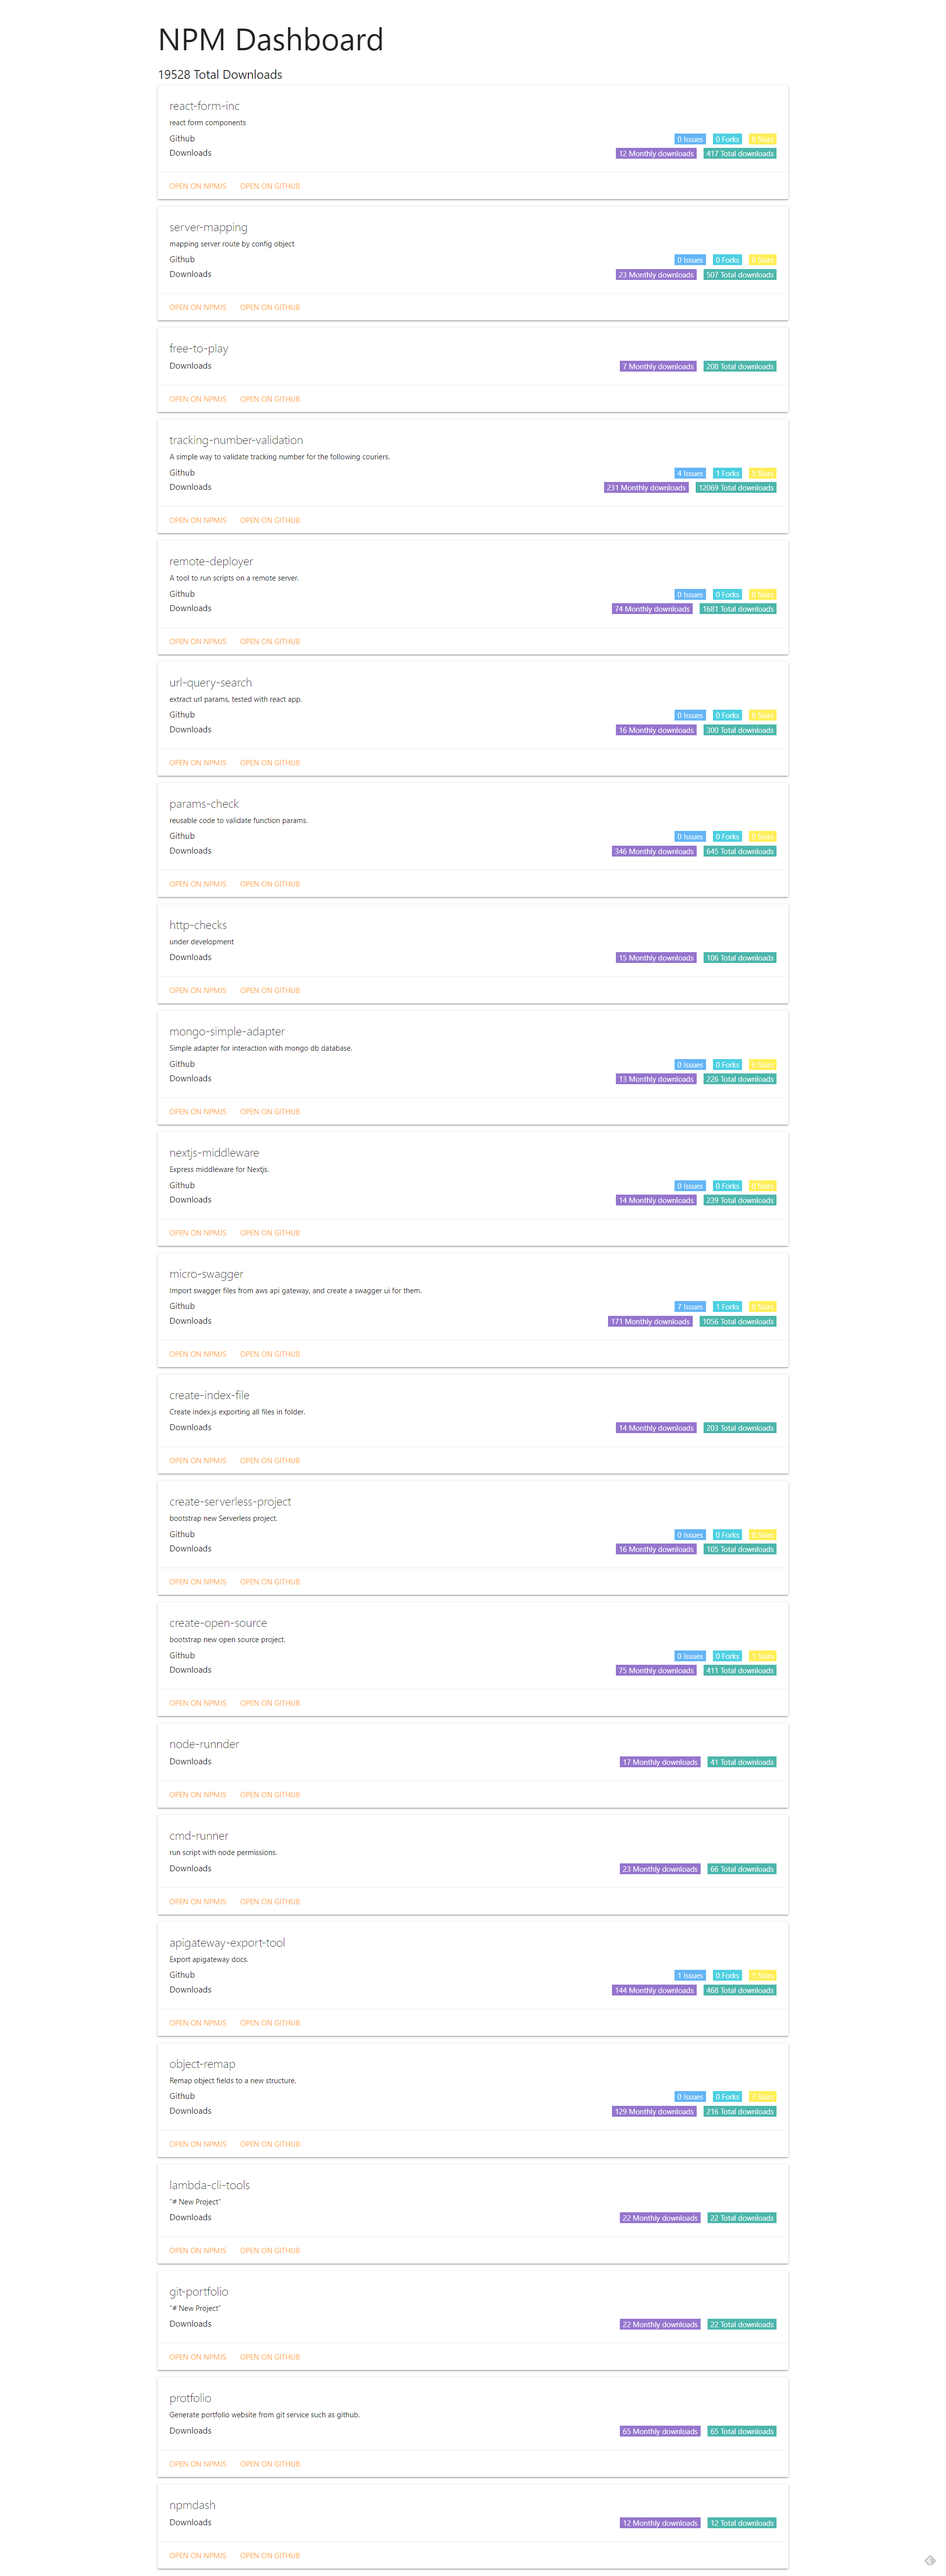
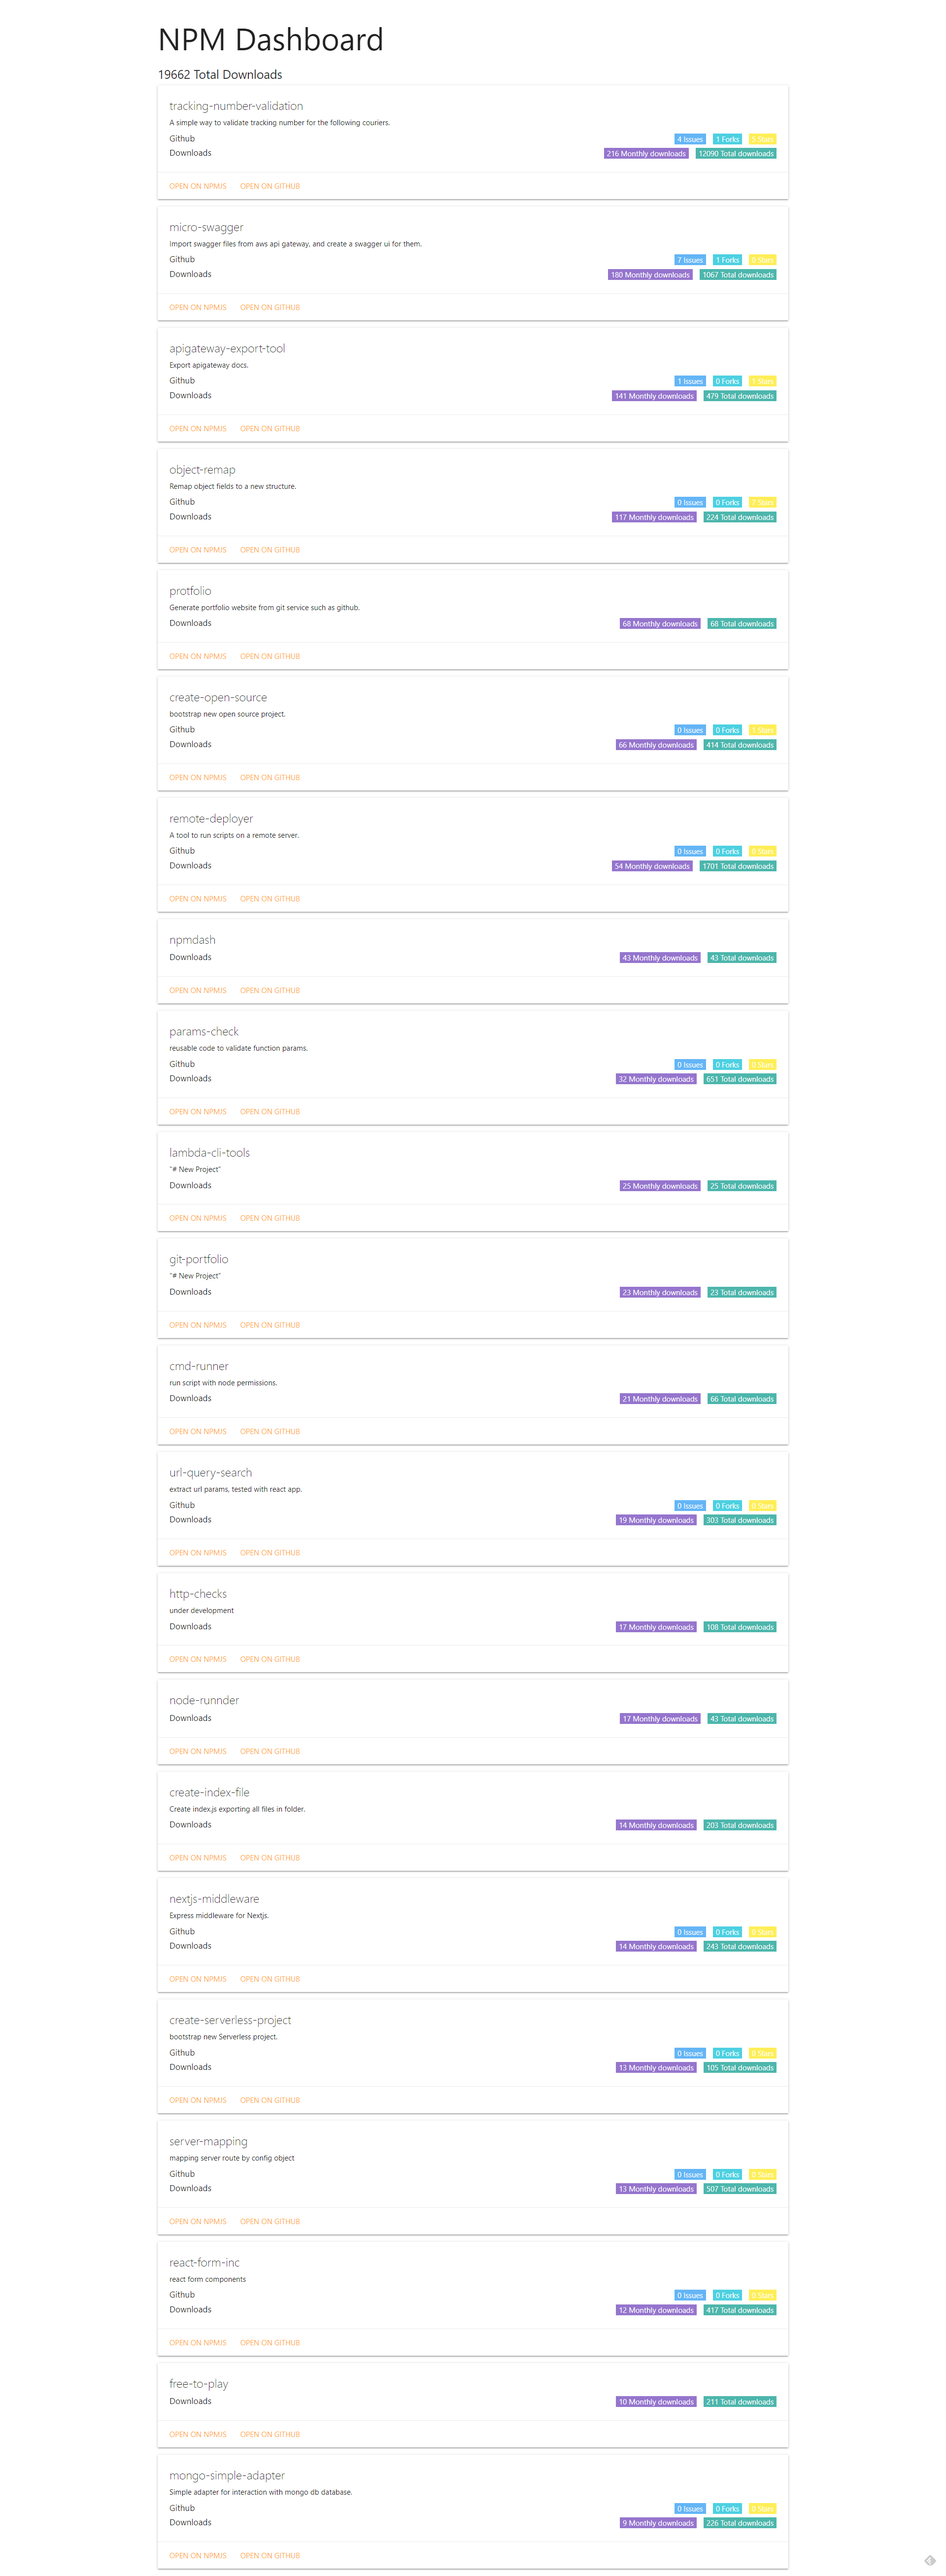
sort

diff --git a/src/npm/packagesByUsername.js b/src/npm/packagesByUsername.js
@@ -9,7 +9,7 @@ const scrap = () => {
   packagesNodes.forEach(n => packages.push(n.innerText));
 
   return {
-    packages
+    packages,
   };
 };
 
@@ -17,7 +17,7 @@ const packagesByUsername = async (username = "niradler55") => {
   const res = {};
   const browser = await puppeteer.launch({
     headless: true,
-    args: ["--no-sandbox"]
+    args: ["--no-sandbox"],
   });
   try {
     const page = await browser.newPage();
@@ -31,8 +31,12 @@ const packagesByUsername = async (username = "niradler55") => {
       const name = packages[i];
       const pkg = { name };
 
-      const downloadsInfo = await getDownloads(name).catch(e => console.log(e));
-      pkg.info = await getPackageInfo(name).catch(e => console.log(e));
+      const downloadsInfo = await getDownloads(name).catch(e =>
+        console.log(name, e.message),
+      );
+      pkg.info = await getPackageInfo(name).catch(e =>
+        console.log(name, e.message),
+      );
       if (downloadsInfo) {
         pkg.downloads = downloadsInfo.downloads;
       }
@@ -48,12 +52,12 @@ const packagesByUsername = async (username = "niradler55") => {
       moment()
         .subtract(30, "days")
         .format("YYYY-MM-DD"),
-      moment().format("YYYY-MM-DD")
-    ).catch(e => console.log(e));
+      moment().format("YYYY-MM-DD"),
+    ).catch(e => console.log(names, e.message));
 
     res.total = data.reduce(
       (sum, pkg) => (sum = sum + (pkg.downloads ? pkg.downloads : 0)),
-      0
+      0,
     );
 
     res.packages = packages;

diff --git a/src/app.ts b/src/app.ts
@@ -11,7 +11,7 @@ const port = process.env.PORT || 8989;
 interface IPackagesData {
   total: number;
   packages: string[];
-  data: object;
+  data: object[];
 }
 
 app.set("views", path.join(__dirname, "views"));
@@ -25,18 +25,25 @@ app.get("/npm/dashboard/:username", async (req, res) => {
   try {
     const isTest = !!req.query.test;
 
-    let data: IPackagesData;
+    let npmInfo: IPackagesData;
     if (isTest) {
-      data = require("../packages.json");
+      npmInfo = require("../packages.json");
     } else {
-      data = await packagesByUsername(req.params.username);
+      npmInfo = await packagesByUsername(req.params.username);
     }
 
-    if (!data.packages || data.packages.length === 0) {
+    const sortBy = "monthly";
+    if (sortBy) {
+      npmInfo.data = npmInfo.data.sort(
+        (a: any, b: any) => b[sortBy] - a[sortBy]
+      );
+    }
+
+    if (!npmInfo.packages || npmInfo.packages.length === 0) {
       throw new Error("Not Found!");
     }
 
-    res.render("dashboard", data);
+    res.render("dashboard", npmInfo);
   } catch (error) {
     res.render("error", { errorMessage: error.message });
   }

diff --git a/readme.md b/readme.md
@@ -22,4 +22,4 @@ npmdash -u <npm username>
 ### screenshots
 
 <img src="assets/screencapture-npmdash-search-view.png">
-<img src="assets/screencapture-npmdash-packages-view.png" >
+<img src="assets/screencapture-npmdash-packages-view-short.png" >
